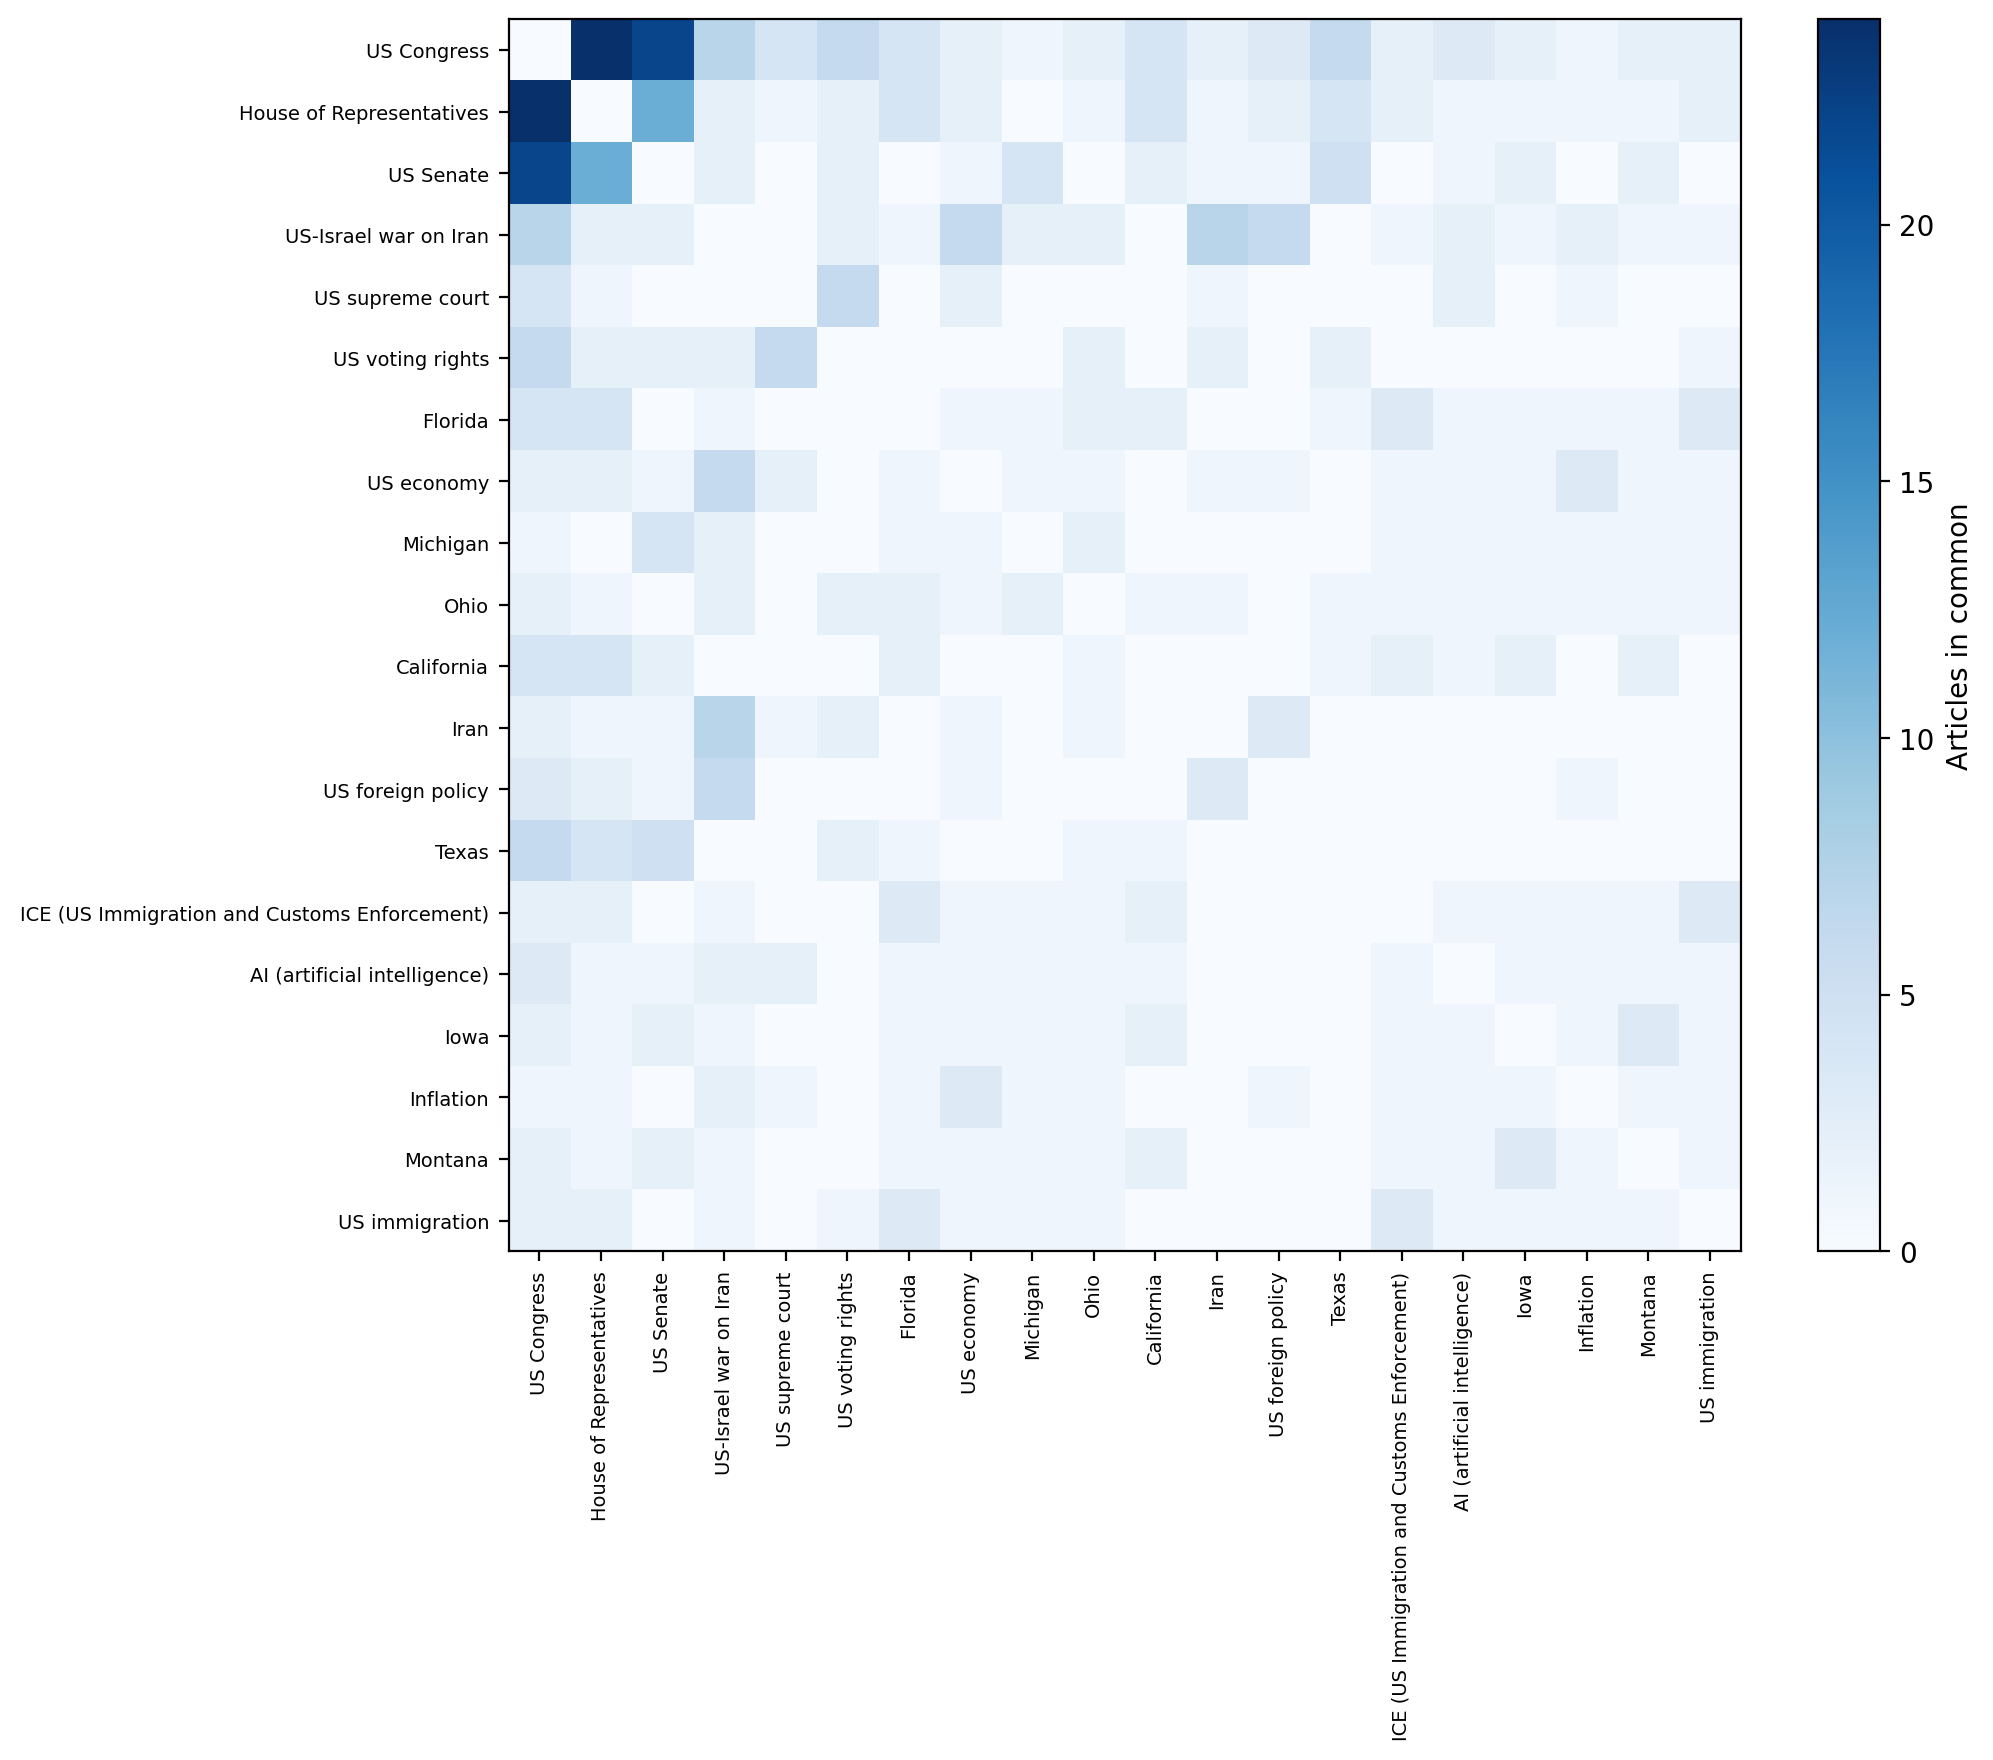
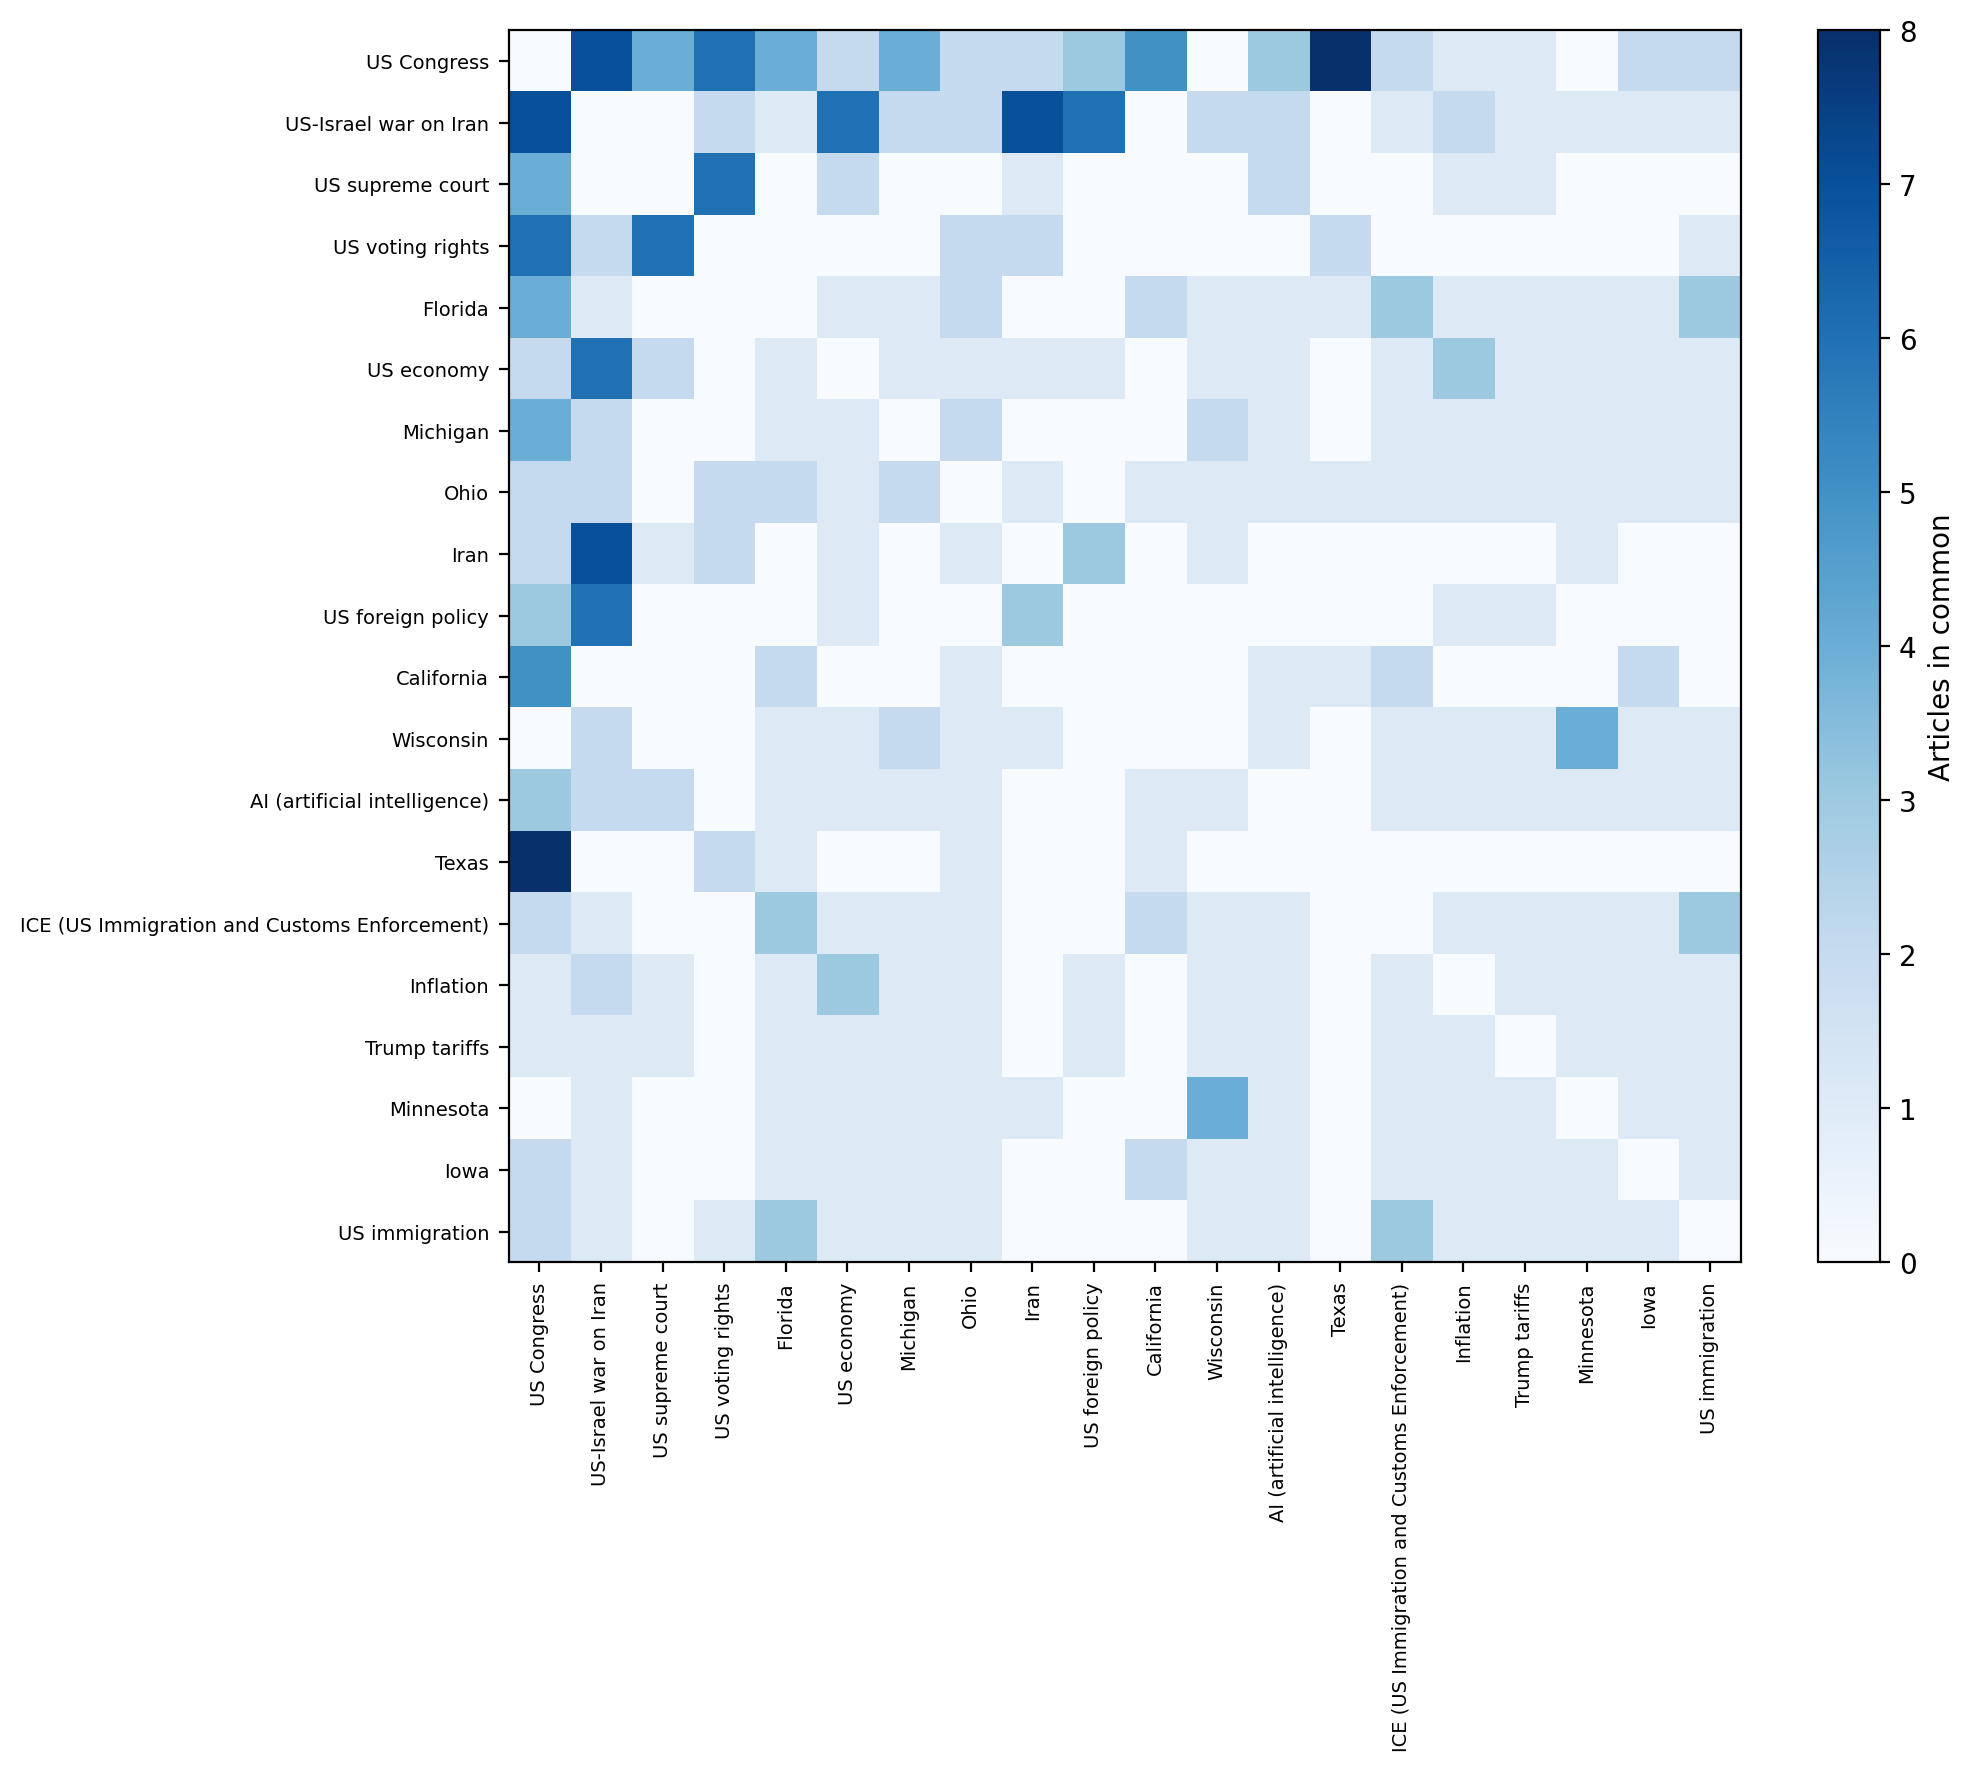
updated main code for final revision
Merged congress into one tags to allow for easier visibility of nodes within the graph/network figure.

Changed region(s): [[0.0, 0.0, 0.9884, 0.9688], [0.7413, 0.5625, 0.7722, 0.5938], [0.7104, 0.5312, 0.7413, 0.5625]]

diff --git a/main-code.py b/main-code.py
@@ -209,6 +209,16 @@ def plot_monthly(rows):
     plt.savefig(FIG_DIR / "monthly.png", dpi=200, bbox_inches="tight")
     plt.close()
 
+#merge congress tags into one
+CONGRESS_TAGS = {"US Senate", "House of Representatives"}
+
+def merge_congress(rows):
+    merged = []
+    for r in rows:
+        tags = ["US Congress" if t in CONGRESS_TAGS else t for t in r["tags"]]
+        merged.append({**r, "tags": list(dict.fromkeys(tags))})  # dedupe, keep order
+    return merged
+
 
 # ----------------------------------------------------------------------
 # MAIN
@@ -219,6 +229,10 @@ if __name__ == "__main__":
     # Keep only articles the Guardian tagged as midterms coverage
     rows = [r for r in rows if "US midterm elections 2026" in r["tags"]]
     print(f"Filtered to {len(rows)} articles tagged as midterms")
+
+    #updated merge of congress tags into one for Run D; comment out for Runs A-C
+    rows = [r for r in rows if "US midterm elections 2026" in r["tags"]]
+    rows = merge_congress(rows)   # Run D only; comment out for Runs A-C
 
     inspect(rows)
     G, pairs = build_graph(rows)
